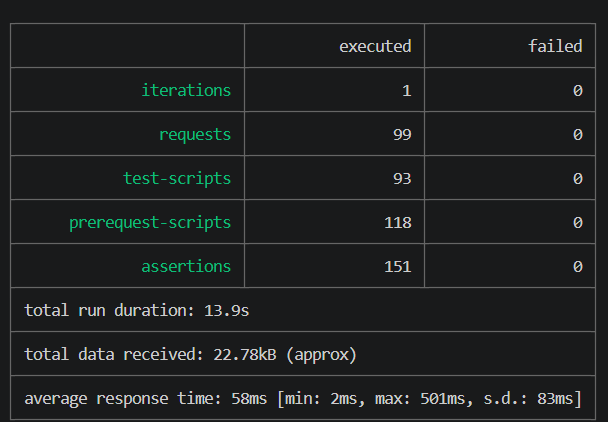
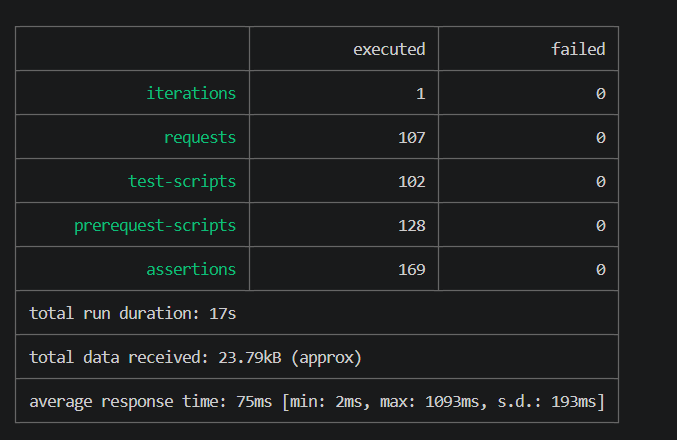
Update test counts and Newman screenshot in README
Re-run Newman (107 requests, 169 assertions without the admin folder) and Vitest (9 files, 60 tests) and update the README counts, screenshot and saved Vitest output to match.

diff --git a/README.md b/README.md
@@ -23,7 +23,7 @@ This README documents the complete application. Part 1 delivered a secure authen
 - **Domain services** - gigs, bookings with a status workflow and reviews, simulated transactions, and a freelancer income summary with a tax estimate.
 - **Access control** - role checks and ownership checks on every protected route, plus admin user management.
 - **More security controls** - NoSQL-injection and parameter-pollution protection, HTML stripping, per-endpoint rate limiters, two-factor authentication (required for admins), session revocation on logout and password change, account lockout, breached-password rejection, and an idle-session timeout.
-- **Testing** - a 99-request Postman/Newman collection, backend self-checks, 49 frontend tests, `npm audit` and an OWASP ZAP scan.
+- **Testing** - a 113-request Postman/Newman collection, backend self-checks, 60 frontend tests, `npm audit` and an OWASP ZAP scan.
 - **DevOps** - Docker Compose for the whole stack and a GitHub Actions pipeline.
 
 Part 3 completes it:
@@ -773,12 +773,12 @@ The result should show `modifiedCount: 1`. Emails are stored in lowercase, so `m
 ## Testing
 
 ### Postman / Newman
-The Part 2 collection ([API/postman/HustleHub+ Part2.postman_collection.json](API/postman/HustleHub+%20Part2.postman_collection.json)) runs **109 requests / 168 assertions** across ten folders:
+The Part 2 collection ([API/postman/HustleHub+ Part2.postman_collection.json](API/postman/HustleHub+%20Part2.postman_collection.json)) holds **113 requests** across ten folders:
 
 - **00 Health, 01 Auth, 05 Account** - register, login, `/me`, profile and password changes, with their `400`/`401`/`409` failure paths.
 - **02 Gigs, 03 Bookings, 04 Income** - the domain flows, including validation failures, ownership checks, review rules and the freelancer-only income summary.
 - **06 Error handling** - unknown route (`404`), malformed JSON (`400`), body over 10&nbsp;KB (`413`), each asserting the controlled error message so nothing internal leaks.
-- **07 Users - access control, 08 Admin** - role checks (`403`); the admin folder is skipped unless `adminEmail`/`adminPassword`/`adminCode` are set (the account needs two-factor on, and `adminCode` is a current code from its app), which leaves 99 requests / 151 assertions (this is what CI runs).
+- **07 Users - access control, 08 Admin** - role checks (`403`); the admin folder is skipped unless `adminEmail`/`adminPassword`/`adminCode` are set (the account needs two-factor on, and `adminCode` is a current code from its app), which leaves 107 requests / 169 assertions (this is what CI runs).
 - **09 Rate limiting** - runs last and asserts the `429` response, its message and the rate-limit headers on both the booking and the login endpoint.
 
 The Part 1 collection (13 requests / 17 assertions) is kept beside it and runs with `npm run test:api:part1`.
@@ -790,11 +790,11 @@ cd API
 npm run test:api
 ```
 
-![Newman run summary: 99 requests and 151 assertions executed, 0 failed](newman-run.png)
+![Newman run summary: 107 requests and 169 assertions executed, 0 failed](newman-run.png)
 
-The run above is without the admin credentials set, so the admin folder is skipped: **99/99 requests, 151/151 assertions, 0 failures**.
+The run above is without the admin credentials set, so the admin folder is skipped: **107/107 requests, 169/169 assertions, 0 failures**.
 
-A captured run is committed at [API/postman/newman/newman-run.txt](API/postman/newman/newman-run.txt) (JSON export beside it): **109/109 requests, 168/168 assertions, 0 failures**, with the admin folder included. Add `EXPOSE_TOKEN_IN_BODY=true` to `API/.env` and restart the API before the run so the tests can read the token from the response body, then remove it again. The rate limiters are counted per API process and the collection uses up part of their allowance, so restart the API before each run. Screenshots of the saved response examples are in [the accompanying PDF](Screenshots/HustleHub+%20Postman%20Part%202%20Collections.pdf).
+A captured run is committed at [API/postman/newman/newman-run.txt](API/postman/newman/newman-run.txt) (JSON export beside it): **109/109 requests, 168/168 assertions, 0 failures**, with the admin folder included. That run is from 12 October, before the 05 Account folder gained its two-factor requests, so it has fewer requests than the run above. Add `EXPOSE_TOKEN_IN_BODY=true` to `API/.env` and restart the API before the run so the tests can read the token from the response body, then remove it again. The rate limiters are counted per API process and the collection uses up part of their allowance, so restart the API before each run. Screenshots of the saved response examples are in [the accompanying PDF](Screenshots/HustleHub+%20Postman%20Part%202%20Collections.pdf).
 
 ### npm audit
 `npm audit` checks every dependency against the public vulnerability database [38]. The API has **0 known vulnerabilities**:
@@ -846,7 +846,7 @@ npm install
 npm run test:run
 ```
 
-`npm test` runs the same tests in watch mode. A captured run is committed at [frontend/test-results/vitest-run.txt](frontend/test-results/vitest-run.txt): **8 test files, 49 tests, 0 failures**. The CI pipeline runs `npm run test:run` in the frontend job, so a failing test fails the build.
+`npm test` runs the same tests in watch mode. A captured run is committed at [frontend/test-results/vitest-run.txt](frontend/test-results/vitest-run.txt): **9 test files, 60 tests, 0 failures**. The CI pipeline runs `npm run test:run` in the frontend job, so a failing test fails the build.
 
 | Test file | What it checks |
 |-----------|----------------|
